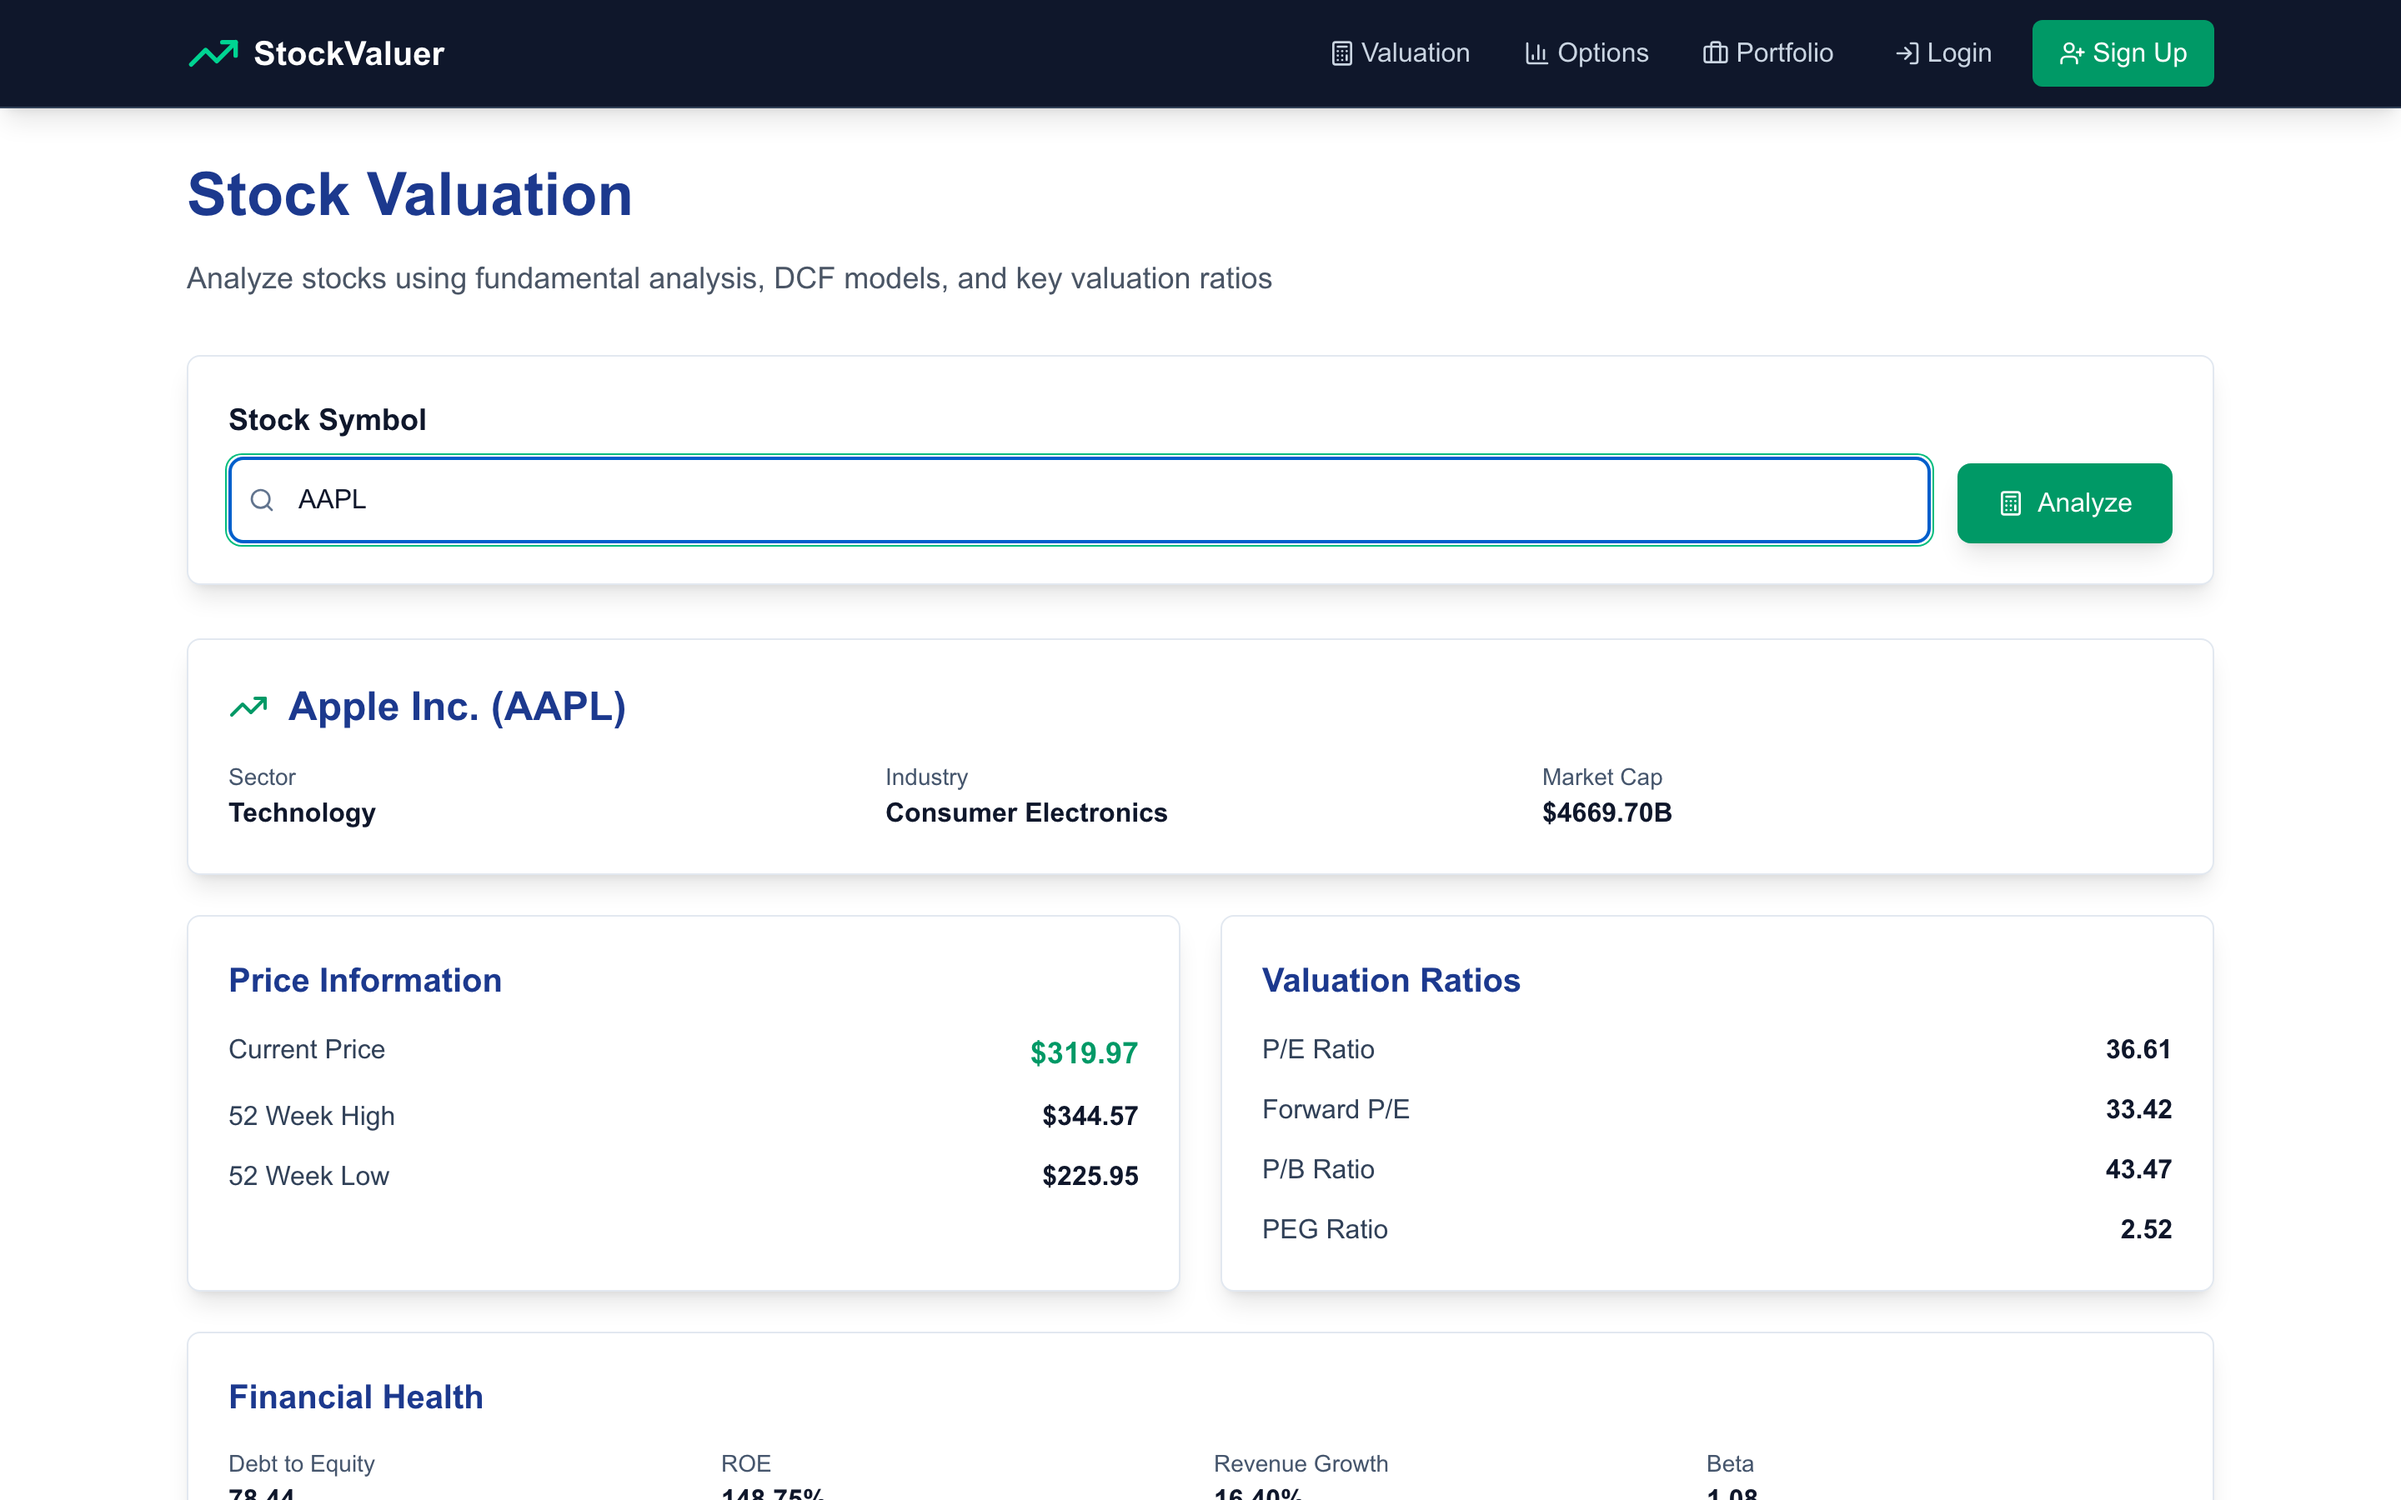
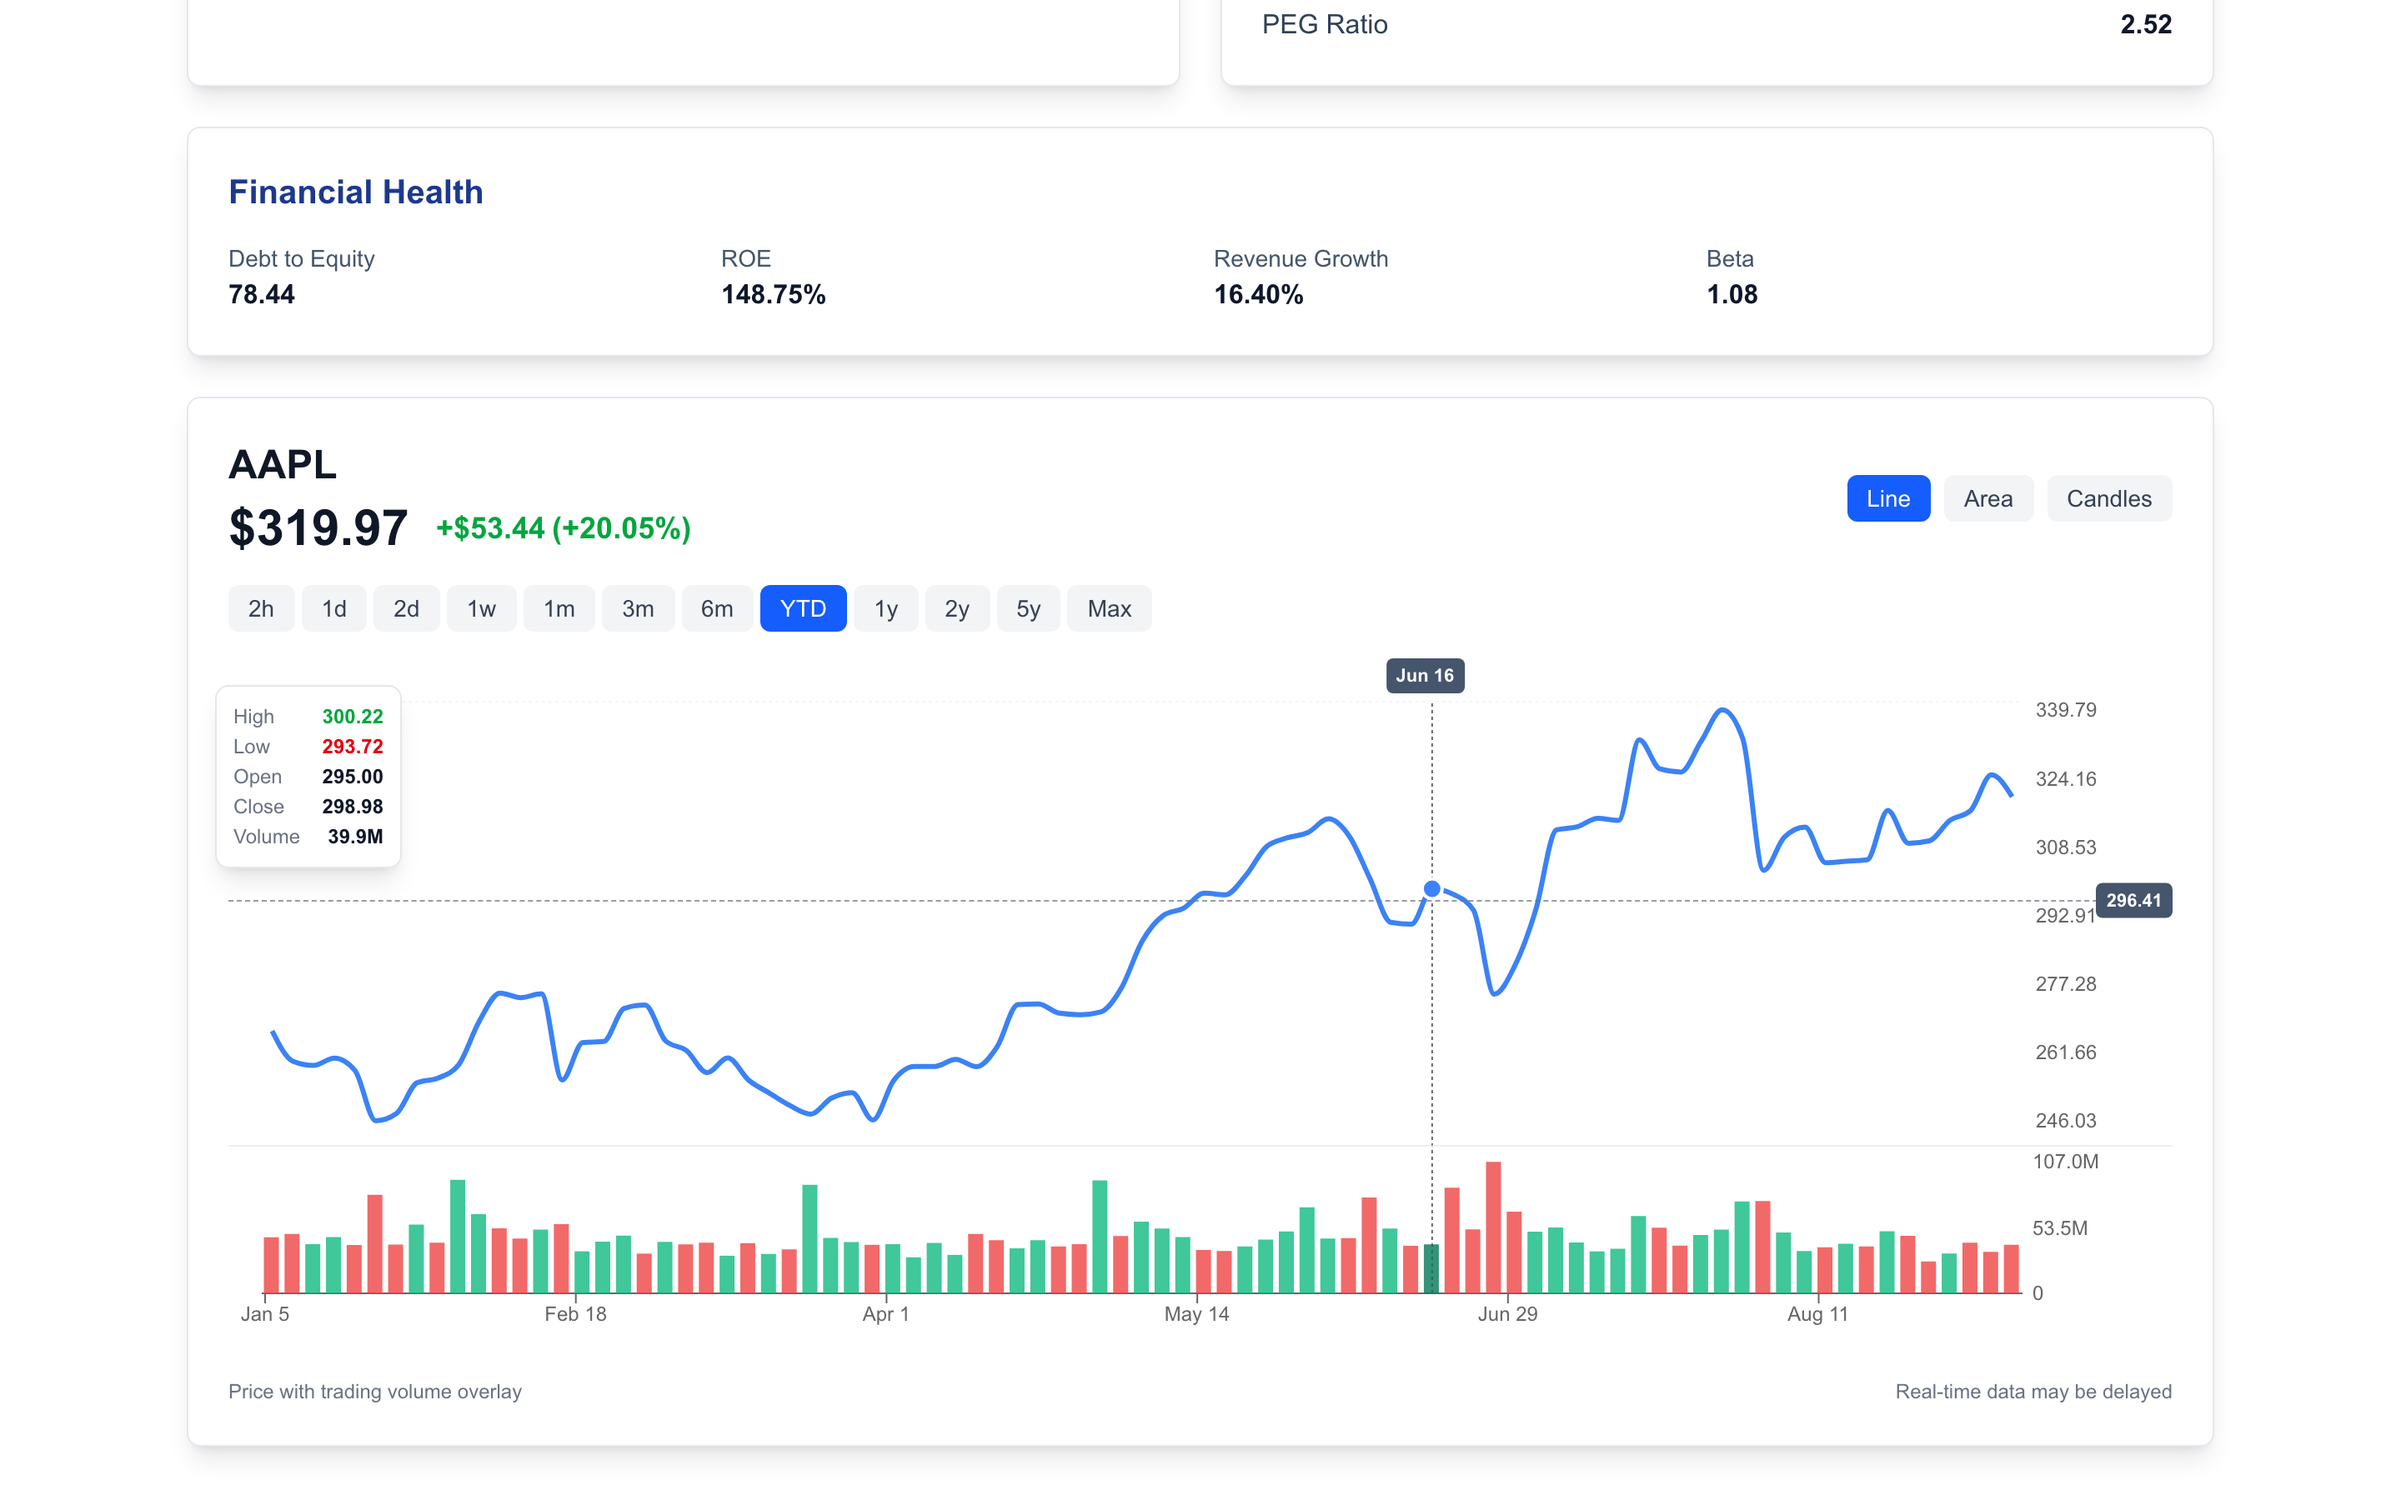
Refresh README: current screenshots, timeframe intervals, CET wording
Screenshots show the merged price/volume chart with the crosshair; the
timeframe list matches the actual buttons and per-interval data, and
timezone notes say CET instead of Poland.

diff --git a/README.md b/README.md
@@ -13,7 +13,7 @@ A comprehensive web application for stock valuation, options pricing, and portfo
 - **Stock Valuation**: DCF models, P/E ratios, fundamental analysis with real-time data
 - **Options Pricing**: Black-Scholes model with Greeks calculations (delta, gamma, theta, vega, rho)
 - **Portfolio Analysis**: Track investments and analyze portfolio performance
-- **Interactive Charts**: Multiple timeframes (3h, 1d, 5d, 1mo, 3mo, 6mo, 1y, 2y, 5y, max) with Poland timezone support
+- **Interactive Charts**: Multiple timeframes (2h, 1d, 2d, 1w, 1m, 3m, 6m, YTD, 1y, 2y, 5y, Max) with CET timezone support
 - **Real-time Data**: Integration with Yahoo Finance API via yfinance library
 
 ## Technology Stack
@@ -153,14 +153,18 @@ Stock/
 
 The application supports multiple timeframes with specific data intervals:
 
-- **3h**: 15-minute intervals (last 3 hours)
-- **1d**: Daily data (last trading day)
-- **5d**: Daily data (5 trading days)
-- **1mo, 3mo, 6mo**: Daily data
-- **1y, 2y, 5y**: Daily data
-- **max**: All available historical data
+- **2h**: 1-minute candles (last 2 trading hours)
+- **1d**: 5-minute candles (last trading day)
+- **2d**: 10-minute candles (resampled from 5m)
+- **1w**: 30-minute candles
+- **1m**: hourly candles
+- **3m**: two session snapshots per day
+- **6m**: daily candles
+- **YTD**: daily candles (thinned to every 2nd day later in the year)
+- **1y, 2y**: weekly candles
+- **5y, Max**: the first trading day of each month
 
-**Note**: Times are displayed in Poland timezone (CET/CEST).
+**Note**: Times are displayed in CET timezone.
 
 ## Data Limitations
 
@@ -220,7 +224,7 @@ Both suites run in CI on every push and pull request.
 
 1. **No chart data**: Some timeframes may not have data on weekends or holidays
 2. **API errors**: Yahoo Finance API may have temporary outages
-3. **Timezone display**: Times automatically convert to Poland timezone (CET/CEST)
+3. **Timezone display**: Times automatically convert to CET timezone
 
 ## Contributing
 
